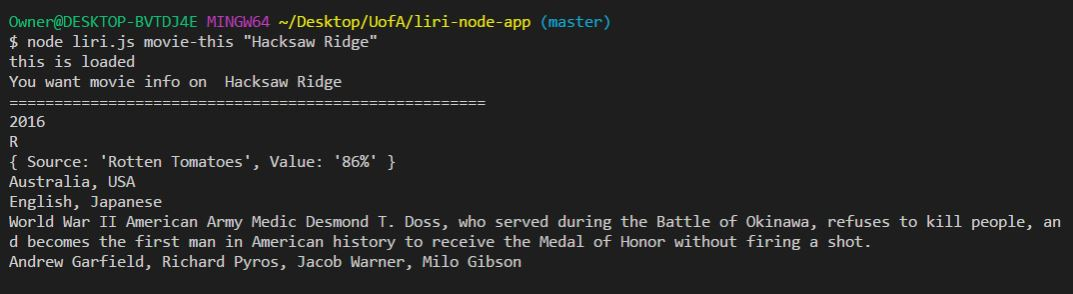
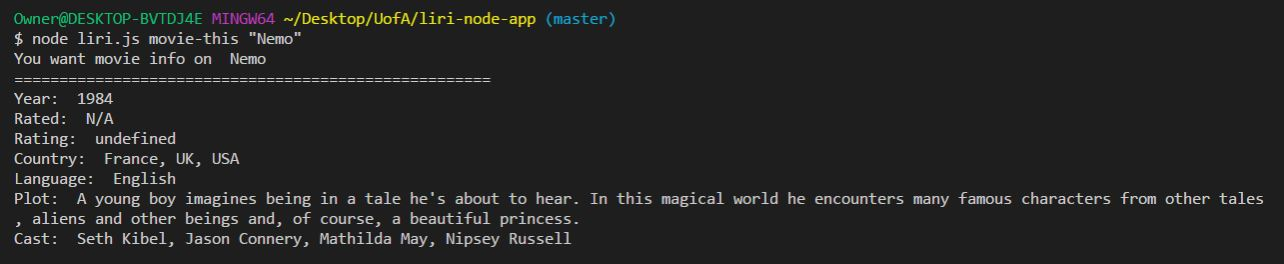
3rd Submit Homework

Changed region(s): [[0.0, 0.0303, 0.5843, 0.6364], [0.0, 0.6667, 1.0, 0.9394]]

diff --git a/liri.js b/liri.js
@@ -8,6 +8,8 @@ const fs = require("fs");
 var request = require("request");
 //npm spotify package
 const Spotify = require('node-spotify-api');
+//npm moment package
+const moment = require('moment')
 //pulls in API key information for Spotify
 const spotify = new Spotify(keys.spotify);
 
@@ -28,7 +30,7 @@ switch (action) {
     bandsInTown(input);
     //goes to the next action
     break;
-   //action 
+  //action 
   case 'spotify-this-song':
     //prints what is being searched
     console.log("Information for the song ", input);
@@ -40,6 +42,8 @@ switch (action) {
   case 'movie-this':
     //prints what is being searched
     console.log("You want movie info on ", input);
+    //call getOmbd function to run
+    getOmbd(input);
     //goes to the next action
     break;
   //action
@@ -61,12 +65,12 @@ function bandsInTown(artist) {
     if (!error && response.statusCode === 200) {
       //created variable to turn string into object
       var info = JSON.parse(body)
-      // var datetime = moment().format('MMMM Do YYYY),
+      var datetime = moment(info[0].datetime).format('MMMM DD, YYYY');
       //displays information found for the concert
       console.log("=====================================================")
-      console.log("Venue: ",info[0].venue.name)
-      console.log("Location: ",info[0].venue.city)
-      console.log("Date: ",info[0].datetime);
+      console.log("Venue: ", info[0].venue.name)
+      console.log("Location: ", info[0].venue.city)
+      console.log("Date: ", datetime);
     }
   });
 }
@@ -81,10 +85,11 @@ function getSpotify(songName) {
     .then(function (response) {
       //displays information about the song
       console.log("=====================================================")
-      console.log("Artist: ",response.tracks.items[0].artists[0].name);
-      console.log("Song: ",response.tracks.items[0].name);
-      // console.log(response.tracks.items[0].album_type);
-      console.log("Link: ",response.tracks.items[0].external_urls.spotify);
+
+      console.log("Artist: ", response.tracks.items[0].artists[0].name);
+      console.log("Song: ", response.tracks.items[0].name);
+      console.log("Album: ", response.tracks.items[0].album.name);
+      console.log("Link: ", response.tracks.items[0].external_urls.spotify);
     })
     //alerts error
     .catch(function (err) {
@@ -94,24 +99,82 @@ function getSpotify(songName) {
 
 
 //create a function that will connect with OMbd API
-//require npm package
-var request = require("request");
-//created variable for user input of movie title
-const movieTitle = input;
-//ajax request from OMdb
-request("http://www.omdbapi.com/?t=" + movieTitle + "&y=&plot=short&apikey=trilogy", function (error, response, body) {
-  //error alert 
-  if (!error && response.statusCode === 200) {
-    //created variable converts string into object
-    const movie = JSON.parse(body)
-    //displays information about the movie
-    console.log("=====================================================")
-    console.log("Year: ",movie.Year);
-    console.log("Rated: ",movie.Rated);
-    console.log("Rating: ",movie.Ratings[1]);
-    console.log("Country: ",movie.Country);
-    console.log("Language: ",movie.Language);
-    console.log("Plot: ",movie.Plot);
-    console.log("Cast: ",movie.Actors);
+function getOmbd(movieTitle) {
+  //require npm package
+  var request = require("request");
+  //created variable for user input of movie title
+  var movieTitle = input;
+  //ajax request from OMdb
+  request("http://www.omdbapi.com/?t=" + movieTitle + "&y=&plot=short&apikey=trilogy", function (error, response, body) {
+    //error alert 
+    if (!error && response.statusCode === 200) {
+      //created variable converts string into object
+      const movie = JSON.parse(body)
+      //displays information about the movie
+      console.log("=====================================================")
+      console.log("Year: ", movie.Year);
+      console.log("Rated: ", movie.Rated);
+      console.log("Rating: ", movie.Ratings[1]);
+      console.log("Country: ", movie.Country);
+      console.log("Language: ", movie.Language);
+      console.log("Plot: ", movie.Plot);
+      console.log("Cast: ", movie.Actors);
+    }
+  })
+};
+
+
+
+// This block of code will read from the "random.txt" file.
+// It's important to include the "utf8" parameter or the code will provide stream data (garbage)
+// The code will store the contents of the reading inside the variable "data"
+fs.readFile("random.txt", "utf8", function (error, data) {
+  // If the code experiences any errors it will log the error to the console.
+  if (error) {
+    return console.log(error);
   }
+
+  action = data.split(",")[0];
+  input = data.split(",")[1]
+
+  console.log(action)
+
+  switch (action) {
+    //action
+    case 'concert-this':
+      //prints what is being searched
+      console.log("Concert for ", input);
+      //calls bandsInTown function to run
+      bandsInTown(input);
+      //goes to the next action
+      break;
+    //action 
+    case 'spotify-this-song':
+      //prints what is being searched
+      console.log("Information for the song ", input);
+      //calls getSpotify function to run
+      getSpotify(input);
+      //goes to the next action
+      break;
+    //action  
+    case 'movie-this':
+      //prints what is being searched
+      console.log("You want movie info on ", input);
+      //call getOmbd function to run
+      getOmbd(input);
+      //goes to the next action
+      break;
+    //action
+    case 'do-what-it-says':
+      console.log("Do what it says");
+      //goes to the next action
+      break;
+    //action
+    default:
+      //prints that we need to enter information another way/correct way
+      console.log("No idea what you are asking for...");
+  }
+
+  // We will then print the contents of data
+  console.log(data);
 });
